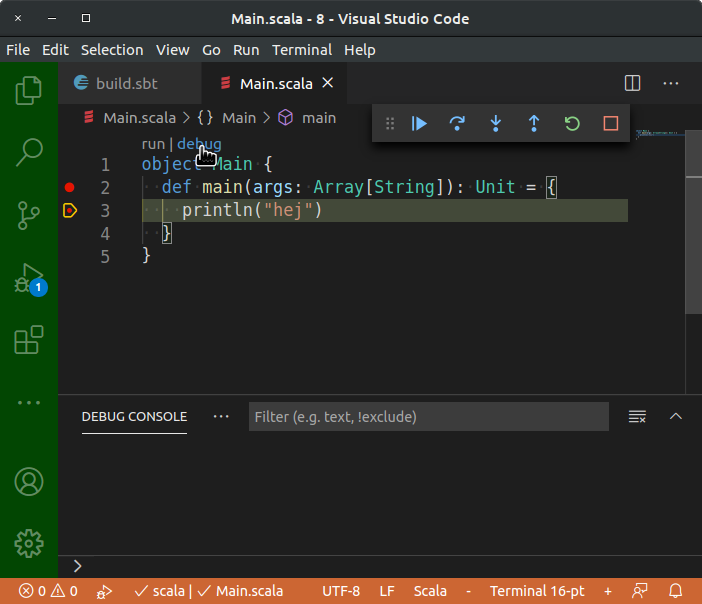
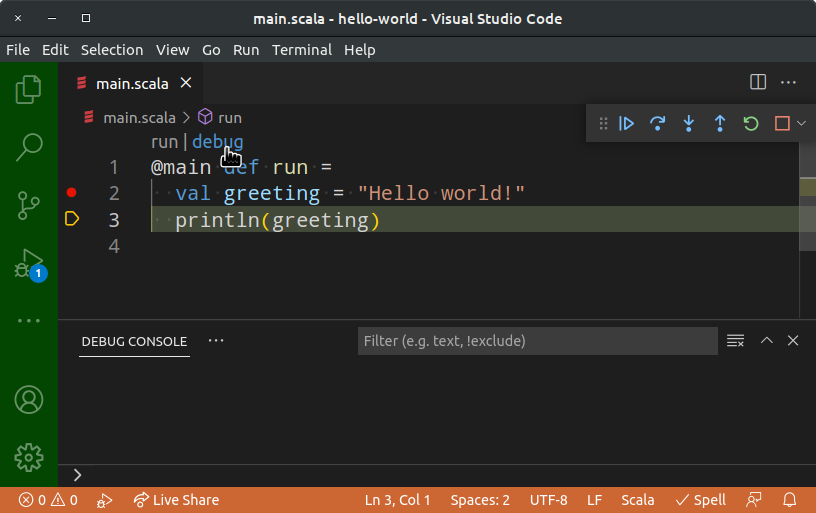
improve vscode run|debug text+img in appendix

diff --git a/compendium/postchapters/ide-vscode.tex b/compendium/postchapters/ide-vscode.tex
@@ -3,7 +3,7 @@
 
 \section{Visual Studio Code med tillägget Scala Metals}\label{appendix:ide:vscode}
 
-Visual Studio Code\footnote{\href{https://en.wikipedia.org/wiki/Visual\_Studio\_Code}{en.wikipedia.org/wiki/Visual\_Studio\_Code}}, förkortat VS Code eller bara \code{code}, är en gratis utvecklingsmiljö som är mestadels öppen källkod\footnote{Varianten VS Codium \url{https://vscodium.com/} är helt fri från stängd källkod.}. Projektet startades och leds av Microsoft och har en aktiv gemenskap med många utvecklare och många användbara tillägg \Eng{extensions}.
+Visual Studio Code\footnote{\href{https://en.wikipedia.org/wiki/Visual\_Studio\_Code}{en.wikipedia.org/wiki/Visual\_Studio\_Code}}, förkortat VS Code eller bara \code{code}, är en gratis utvecklingsmiljö som är mestadels öppen källkod\footnote{Varianten VS Codium \url{https://vscodium.com/} är helt fri från stängd källkod och telemetri.}. Projektet startades och leds av Microsoft och har en aktiv gemenskap med många utvecklare och många användbara tillägg \Eng{extensions}.
 
 VS Code kallas ofta för ''bara'' en editor, men har genom åren utvecklats till en fullfjädrad IDE med bl.a. inbyggd debugger och stöd för många olika språk via ett omfattande bibliotek av tillägg.%
 
@@ -34,8 +34,8 @@ Mer information om installation av verktyg finns på kursens hemsida: \\
 
 \begin{figure}
 \centering
-\includegraphics[width=0.9\textwidth]{../img/vscode-debug}
-\caption{Debuggern i VS Code.\label{appendix-ide:vscode-debug}}
+\includegraphics[width=1.0\textwidth]{../img/vscode-run}
+\caption{Köra program med \textsf{run} inifrån VS Code.\label{appendix-ide:vscode-run}}
 \end{figure}
 
 \subsection{Köra program i VS Code}
@@ -45,10 +45,19 @@ Det finns olika sätt att köra igång huvudprogrammet i ett projekt i VS Code:
 \begin{enumerate}
   \item Använd \texttt{scala-cli run .} i ett separat terminalfönster. Läs mer om \texttt{scala-cli} i Appendix \ref{appendix:compile:scala-cli}.
   \item Kör igång \texttt{sbt} i ett separat terminalfönster och kör kommandot \texttt{run} inifrån \texttt{sbt}. Detta kräver att du har en giltig \texttt{build.sbt}, se Appendix \ref{appendix:build}.
-  \item Köra igång program inifrån VS Code. Detta kräver att du öppnat katalogen med din kod med File-menyns ''Open Folder'', eller genom att du startar VS Code med \texttt{code .} överst i din projektkatalog. Du behöver \textit{innan} du startar VS Code en första gång köra \texttt{scala-cli setup-ide .} (se Appendix \ref{appendix:compile:scala-cli}), eller skapa en giltig \code{build.sbt}-fil (se Appendix \ref{appendix:build}) som du importerar i VS Code när frågan dyker upp i nedre högra hörnet. 
+  \item Köra igång program inifrån VS Code. Detta kräver att du öppnat katalogen med din kod med File-menyns ''Open Folder'', eller genom att du startar VS Code med \texttt{code .} överst i din projektkatalog. Du behöver \textit{innan} du startar VS Code en första gång köra \texttt{scala-cli setup-ide .} (se Appendix \ref{appendix:compile:scala-cli}), eller skapa en giltig \code{build.sbt}-fil (se Appendix \ref{appendix:build}) som du importerar i VS Code när frågan dyker upp i nedre högra hörnet.
+  \item Kombinera Scala CLI eller \code{sbt} och VS Code. Kör  \texttt{scala-cli compile . -w} eller \code{sbt ~compile} i ett separat terminalfönster. Då kommer kompileringsfel visas där varje gång du spara en ändring i VS Code med Ctrl+S. När alla kompileringsfel är åtgärdade och du är redo att testköra så klickar du på \textsf{run}.
 \end{enumerate}
 
-Du ser att VS Code är beredd att köra igång ditt program genom att det efter ett tag kommer upp en extra rad ovanför ditt huvudprogram med texten \textsf{run | debug} och då kan du klicka på \textsf{run} för att köra ditt program. Utdata från körningen visas i en flik under koden. Observera att det kan ta lite tid lite för VS Code att förbereda allt som behövs för att kunna köra ditt program. Håll koll på om VS Code håller på med dessa förberedelser genom meddelande i fältet längst ned till höger. 
+Du ser att VS Code är beredd att köra igång ditt program genom att det (efter ett tag) kommer upp en extra rad ovanför ditt huvudprogram med texten \textsf{run|debug} och då kan du klicka på \textsf{run} för att köra ditt program. Utdata från körningen visas i en flik under koden. Observera att det kan ta lite tid för VS Code att förbereda allt som behövs för att kunna köra ditt program. Håll koll på om VS Code håller på med dessa förberedelser i det blåa meddelandefältet längst ned till höger. När allt är klart efter att du startat VS Code står det ''Index complete!'' bredvid en raketsymbol i meddelandefältet.
+
+Om något krånglar och du inte får fram \textsf{run|debug} ovanför din \code{@main}-funktion, trots du har startat VS code enligt ovan, så prova att under Metals-fliken (ikonen med det stiliserade M:et i det gröna verktygsfältet) klicka på någon av ''Restart build server'' eller ''Import build'' (den senare tar längre tid men börjar om helt) och vänta tills det står ''Index Complete!'' i det blå meddelandefältet och då ska \textsf{run|debug} synas ovanför din \code{@main}-funktion.
+
+\begin{figure}
+\centering
+\includegraphics[width=1.0\textwidth]{../img/vscode-debug}
+\caption{Debuggern i VS Code.\label{appendix-ide:vscode-debug}}
+\end{figure}
 
 \subsection{Använda debuggern i VS Code}
 
@@ -56,22 +65,23 @@ Innan du börjar använda debuggern, läs först om allmän felhantering i Appen
 
 Du kan aktivera debuggern i VS Code för dina Scala-program genom att klicka på ''debug'' ovanför din \code{main}-metod, förutsatt att du har tillägget Metals installerad i VS Code. Du behöver även köra \texttt{scala-cli setup-ide .} (se Appendix \ref{appendix:compile:scala-cli}), eller ha en giltig \code{build.sbt}-fil (se Appendix \ref{appendix:build}) som du importerar i VS Code när frågan dyker upp i nedre högra hörnet. 
 
-Figur \ref{appendix-ide:vscode-debug} på sidan \pageref{appendix-ide:vscode-debug} visar hur det kan se ut när debuggern i VS Code är aktiverad. Till vänster om radnummerkolumnen kan du klicka för att aktivera och avaktivera brytpunkter. Aktiverade brytpunkter visas som en röd prick i marginalen till vänster. Brytpunkten som är inramad med en gul pil visar den rad som kommer att exekveras härnäst. Notera panelen med olika knappar i överkanten av editorfönstret. Med dessa knappar kan du styra exekveringen enligt följande:
+Figur \ref{appendix-ide:vscode-debug} på sidan \pageref{appendix-ide:vscode-debug} visar hur det kan se ut när debuggern i VS Code är aktiverad. När debuggern är igång blir det nedersta får meddelandefältet en orange färg istället för blå. Till vänster om radnummerkolumnen kan du klicka för att aktivera och avaktivera brytpunkter. Aktiverade brytpunkter visas som en röd prick i marginalen till vänster. Den gula pilen i marginalen pekar på den rad som kommer att exekveras härnäst. Notera panelen med olika knappar i överkanten av editorfönstret. Med dessa knappar kan du styra exekveringen enligt följande (lär dig gärna kortkommandona så blir du snabbare):
 \begin{itemize}
-  \item \textbf{Kör vidare}. Den blåa play-knappen kör vidare till nästa brytpunkt, eller tills programmet är klart om inga fler brytpunker påträffas.
-  \item \textbf{Stega över}.Den blåa böjda framåtpilen kör en rad i taget \emph{utan} att hoppa in i funktioner.
-  \item \textbf{Stega in}. Den blåa nedåtpilen kör vidare en rad i taget och hoppar in i funktioner om raden innehåller funktionsanrop.
-  \item \textbf{Stega ut}. Den blåa uppåtpilen kör klar innevarande funktion.
-  \item \textbf{Kör igen}. Den gröna återstartsikonen kör om ditt program.
-  \item \textbf{Avbryt}. Den röda stoppknappen avbryter denna debuggingsession. Kom ihåg att avbryta innan du startar en ny debuggingsession, annars kan det lätt bli förvirrande med många samtidigt pågående körningar. 
+  \item \textbf{Fortsätt}. Den blåa play-knappen kör vidare till nästa brytpunkt, eller tills programmet är klart om inga fler brytpunker påträffas. Kortkommando ''Continue'': F5.
+  \item \textbf{Stega över}.Den blåa böjda framåtpilen kör en rad i taget \emph{utan} att hoppa in i funktioner.  Kortkommando ''Step Over'': F10.
+  \item \textbf{Stega in}. Den blåa nedåtpilen kör vidare en rad i taget och hoppar in i funktioner om raden innehåller funktionsanrop. Kortkommando ''Step Into'': F11.
+  \item \textbf{Stega ut}. Den blåa uppåtpilen kör klar innevarande funktion. Kortkommando ''Step Out'': Shift+F11.
+  \item \textbf{Kör igen}. Den gröna återstartsikonen kör om ditt program. Kortkommando ''Restart'': Ctrl+Shift+F5.
+  \item \textbf{Avbryt}. Den röda stoppknappen avbryter denna debuggingsession. Kom ihåg att avbryta innan du startar en ny debuggingsession, annars kan det lätt bli förvirrande med många samtidigt pågående körningar. Kortkommando ''Stop'': Shift+F5. 
 \end{itemize}
 
-Figur \ref{appendix-ide:vscode-trace} på sidan \pageref{appendix-ide:vscode-trace} visar hur VS Code presenterar anropsstacken och värdet på de variabler som syns där exekveringen befinner sig för tillfället. Du får fram detta genom att klicka på ikonen med en lus och en playknapp i det vertikala verktygsfältet längst till vänster.  
+Figur \ref{appendix-ide:vscode-trace} på sidan \pageref{appendix-ide:vscode-trace} visar hur VS Code presenterar anropsstacken och värdet på de variabler som syns där exekveringen befinner sig för tillfället. Du får fram detta genom att klicka på ikonen med en lus och en playknapp i det vertikala, gröna verktygsfältet längst till vänster. In en blå ring står en etta om du har startat en debuggingsession. Om det står en tvåa eller mer så har du flera sessioner igång och då kan det vara klokt att avsluta alla utom en, så att inte förvirring uppstår om vilken session som är den aktuella. 
 
 \begin{figure}
 \centering
-\includegraphics[width=0.9\textwidth]{../img/vscode-trace}
+\includegraphics[width=1.0\textwidth]{../img/vscode-trace}
 \caption{Anropsstack och variabler i VS Code.\label{appendix-ide:vscode-trace}}
 \end{figure}
 
-
+Mycket av konsten i debugging handlar om att undersöka variablers värde under exekveringen för att ta reda på om din hypotes om vad som händer under exekvering verkligen stämmer, eller om något egentligen inte fungerar så som du antar. Detta kan du med fördel göra genom att placera brytpunkter på relevanta ställen. Även vid användning av en debugger kan du ha stor nytta av att göra \code{println} av intressanta uttryck för att i detalj undersöka vad som egentligen händer. Läs mer om debugging i Appendix \ref{appendix:debug}.
+ 
